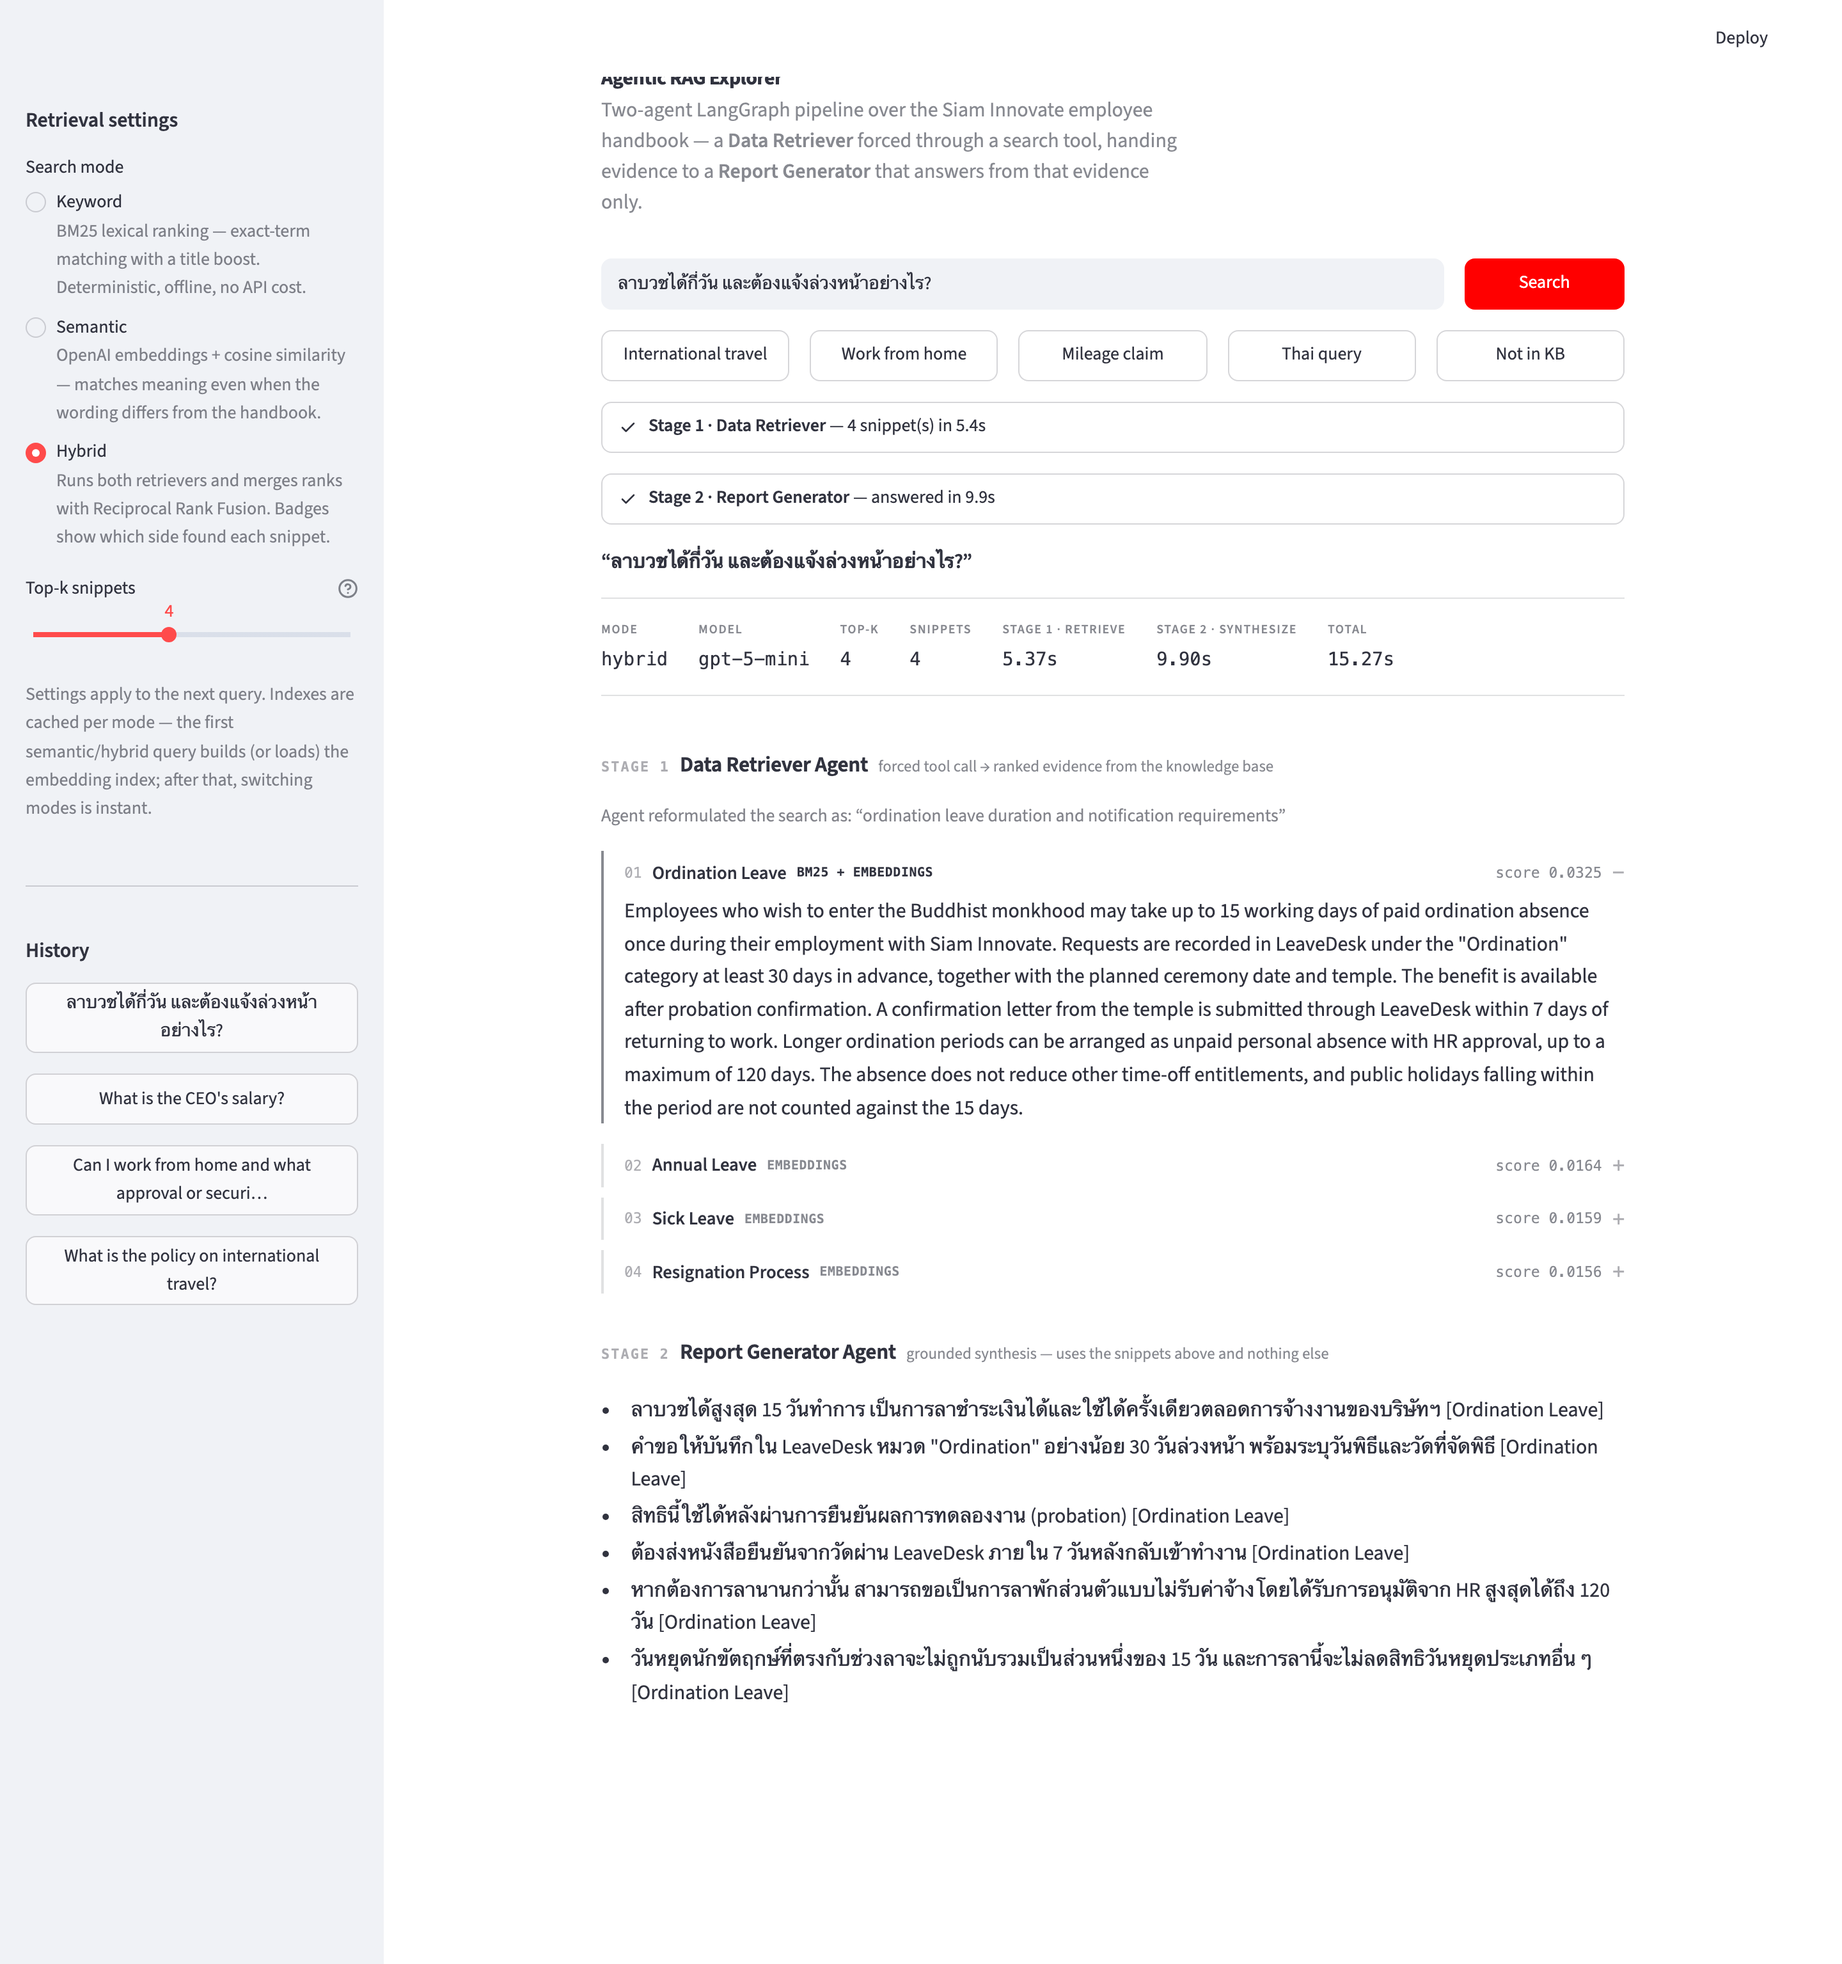
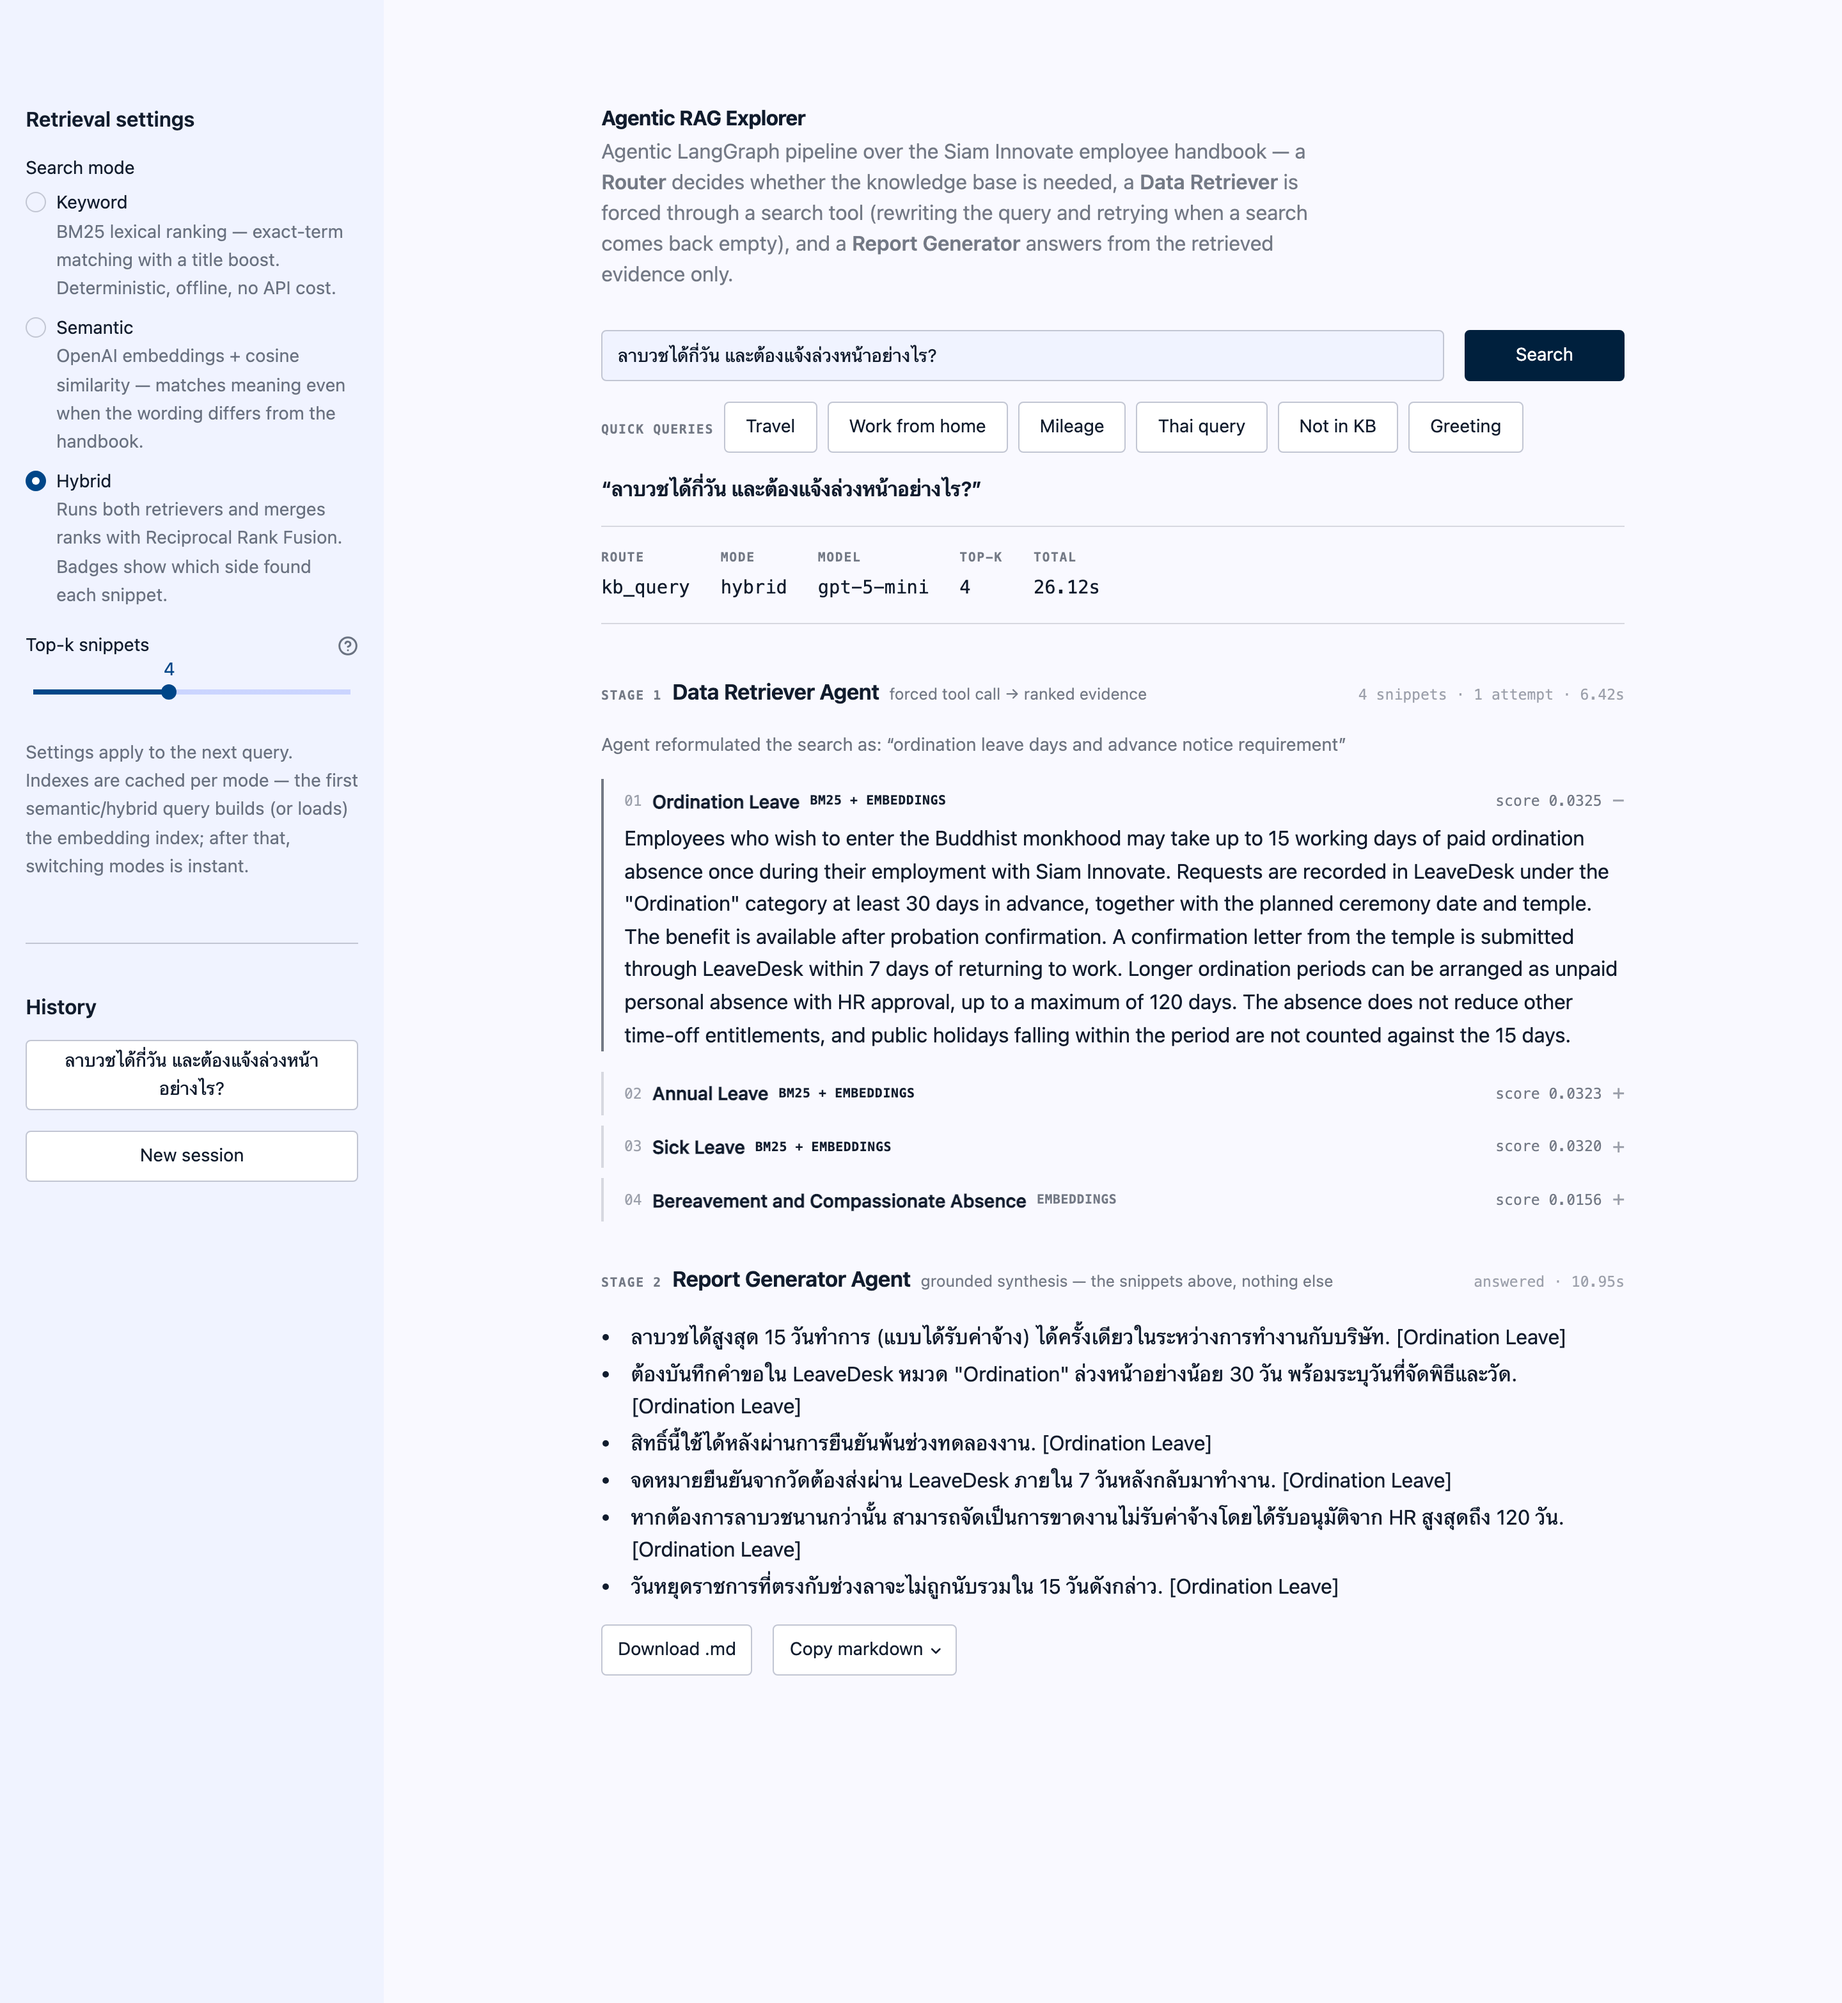
docs: re-shoot the UI screenshots and refresh the README UI section
Recapture all six screenshots against the themed UI, and correct the two
captions the new images no longer matched: the CEO-salary shot now shows
the retry trail (so the "predates the retry loop" note is gone) and reports
the prompt-guardrail fallback path, and the resignation shot carries the
rewriter's current reformulation with the attempt count now read off Stage 1.

Describe the UI as it stands: run-level telemetry strip, per-stage results
that persist across history, the not-found path it names, markdown export,
and the theme file — which is also added to the project structure listing.

diff --git a/README.md b/README.md
@@ -72,6 +72,7 @@ rewrite can never be silently overridden back to the original wording.
 ```
 ├── main.py                   # CLI entry point: staged output per query
 ├── app.py                    # Streamlit UI (presentation layer only)
+├── .streamlit/config.toml    # UI theme tokens (colours, radius, fonts)
 ├── knowledge_base.txt        # the knowledge base: 54 handbook sections
 ├── requirements.txt          # pinned dependencies
 ├── evaluation_results.md     # generated by the eval harness (numbers below)
@@ -170,10 +171,12 @@ and *IT Security and Password Policy*, deduplicated into one answer:
 ![Remote work query — multi-section synthesis](screenshots/02_remote_work.png)
 
 **“What is the CEO's salary?”** — the designed knowledge-base gap. The retry
-loop spends its attempts (each rewrite still finds nothing relevant), and the
+loop spends its attempts (the rewrite reaches *“Chief Executive Officer annual
+base salary amount”* and still surfaces nothing that states a salary), and the
 answer is the not-found sentence — byte-exact, as the answer-level eval
-verifies on every run. (This screenshot predates the retry loop; the attempt
-trail the current pipeline produces is shown two examples below.)
+verifies on every run. Stage 2 reports `fallback`: here the snippet that did
+come back was judged insufficient by the prompt guardrail rather than the
+zero-snippet deterministic path.
 
 ![CEO salary query — not-found guardrail](screenshots/03_not_found_guardrail.png)
 
@@ -184,10 +187,10 @@ retriever reformulates the search in English to match the handbook's wording:
 
 **“I want to quit my job” (keyword mode)** — the retry loop in action. The
 first search (the query verbatim) clears no gates, so the Query Rewriter
-reformulates it as *“Voluntary resignation policy and required notice period”*
-and the second attempt retrieves *Resignation Process* — recovering in keyword
-mode a query that vocabulary mismatch would otherwise miss. The telemetry strip
-records `attempts 2`, and Stage 1 shows the full attempt trail:
+reformulates it as *“Employee resignation procedure: required notice period and
+steps to submit a resignation”* and the second attempt retrieves *Resignation
+Process* — recovering in keyword mode a query that vocabulary mismatch would
+otherwise miss. Stage 1 reports `2 attempts` and shows the full attempt trail:
 
 ![Retry loop — empty first search, rewritten query, then recovered evidence](screenshots/05_retry_trail.png)
 
@@ -344,18 +347,27 @@ semantic/hybrid when vocabulary-mismatch recall is worth the latency and cost.
 **Why the UI shows pipeline stages, not a chatbox.** A chat window would hide
 the one thing this system exists to show — that the answer comes from an
 agentic pipeline with inspectable decisions and an evidence hand-off. The
-telemetry strip shows the router's verdict and the attempt count; **Stage 1**
-renders every retrieved snippet with its rank, score, and a provenance badge
-(BM25 / embeddings / both under fusion — plus the source file when `KB_PATH`
-spans several), together with the full search-attempt
-trail when the query was rewritten; **Stage 2** shows the grounded answer,
-visually separated so it is clearly synthesized *from the evidence above*, and
-surfaces the deterministic not-found fallback verbatim when retrieval is empty.
-The sidebar switches mode and `top_k` per query — making the evaluation
-comparison reproducible interactively — and per-stage telemetry accompanies
-each run.
+telemetry strip carries the run-level facts (route, mode, model, `top_k`,
+wall-clock); each stage heading then reports its own result — **Stage 1** the
+snippet and attempt counts with retrieval latency, **Stage 2** `answered` or
+`fallback` with synthesis latency. Those live on the run itself, so reopening
+an earlier query from the history shows the same trace the live run did, while
+the streaming status panel that narrates a run in progress clears once it
+finishes rather than repeating what the stages already state. Stage 1 renders
+every retrieved snippet with its rank, score, and a provenance badge (BM25 /
+embeddings / both under fusion — plus the source file when `KB_PATH` spans
+several), together with the full search-attempt trail when the query was
+rewritten; Stage 2 shows the grounded answer, visually separated so it is
+clearly synthesized *from the evidence above*, names which not-found path
+produced the fallback sentence (zero-snippet deterministic vs. prompt
+guardrail), and offers the run as markdown — download or copy — so an answer
+can be checked outside the app. The sidebar switches mode and `top_k` per
+query — making the evaluation comparison reproducible interactively — keeps a
+history of runs, and clears it with **New session**.
 `app.py` is pure presentation: it calls the same `build_graph()` and
-`get_retriever()` the CLI and tool layer use, cached with `st.cache_resource`.
+`get_retriever()` the CLI and tool layer use, cached with `st.cache_resource`;
+colours, radii, and fonts come from `.streamlit/config.toml`, so Streamlit's
+own widgets inherit the theme instead of being overridden by injected CSS.
 
 ## Knowledge Base Design
 
